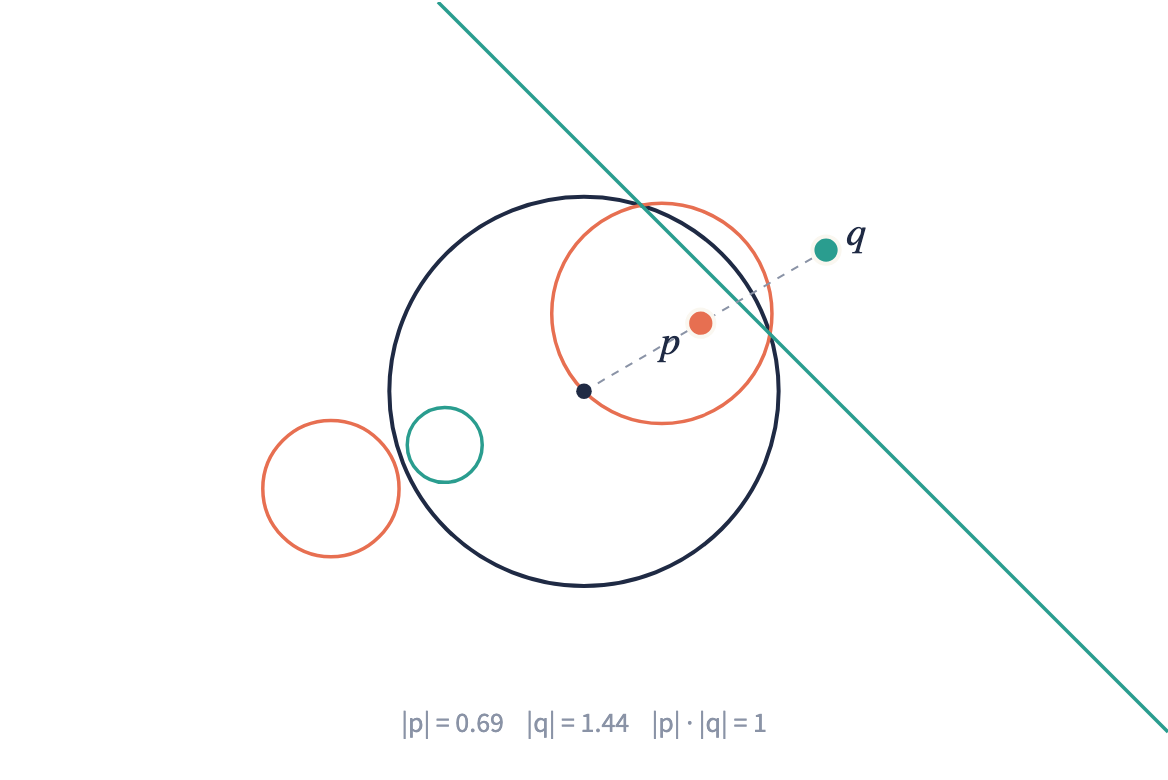
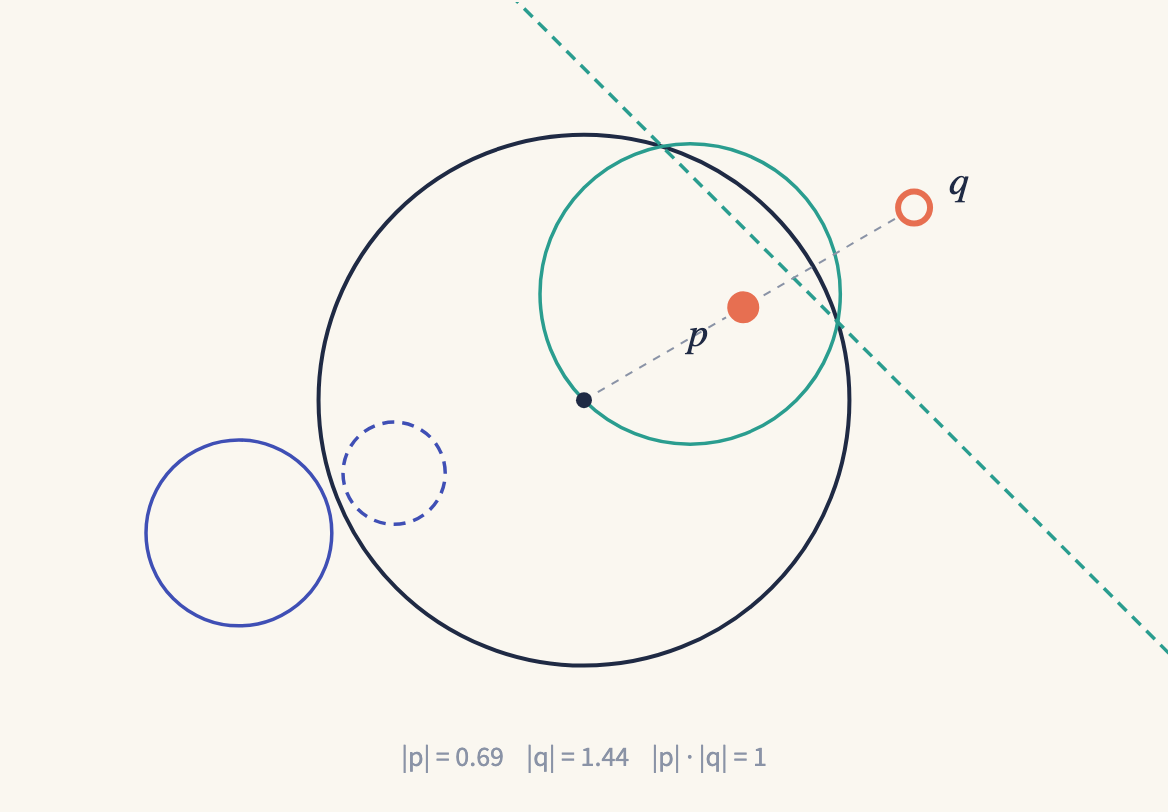
Inversion note in the new voice, a Voice section in BRAND.md, and fixes from a site audit
The note is rewritten in full sentences, with no instructions to the reader and no
Sources section; the citations sit in the text. The theme replaces BRAIID's blue
accent scale with the plum scale, so nothing stays blue. The home page shows the
current inversion figure, the site's own links get an ink focus ring, Videos is back
in the phone header, and Turan's lambda_1 is terracotta with the ceiling in ink.

Claude-Session: https://claude.ai/code/session_018B1YFdQCK4Xtd9jWM7feuX

diff --git a/theme/page.css b/theme/page.css
@@ -57,37 +57,26 @@
   /* BRAIID sets the text's font once, on the wrapper; the text inherits that, so it is set here too. */
   font-family: var(--font-body);
 }
-/* BRAIID colors everything that follows the accent (links, keywords, the rail and wash of a selected
-   block) from two scales of eleven shades, set on body[data-accent]. Both are replaced here with
-   Firsthand's plum, a Tailwind-style scale made from #8e44ad (tailwindcolor.tools). In dark mode the
-   scale is reversed, as BRAIID's own scales are: the light shades become the dark ones. Plum is the
-   site's accent and is never used in figures (BRAND.md). */
-body[data-accent] {
-  --primary-50: light-dark(#f8f6f8, #231429);
-  --primary-100: light-dark(#f1ecf3, #3b2046);
-  --primary-200: light-dark(#e0d0e6, #502a60);
-  --primary-300: light-dark(#cdafda, #6e3785);
-  --primary-400: light-dark(#b784cc, #8741a5);
-  --primary-500: light-dark(#a15abe, #a15abe);
-  --primary-600: light-dark(#8741a5, #b784cc);
-  --primary-700: light-dark(#6e3785, #cdafda);
-  --primary-800: light-dark(#502a60, #e0d0e6);
-  --primary-900: light-dark(#3b2046, #f1ecf3);
-  --primary-950: light-dark(#231429, #f8f6f8);
-  --information-50: var(--primary-50);
-  --information-100: var(--primary-100);
-  --information-200: var(--primary-200);
-  --information-300: var(--primary-300);
-  --information-400: var(--primary-400);
-  --information-500: var(--primary-500);
-  --information-600: var(--primary-600);
-  --information-700: var(--primary-700);
-  --information-800: var(--primary-800);
-  --information-900: var(--primary-900);
-  --information-950: var(--primary-950);
-  /* Keywords one step brighter than BRAIID's default, so they stand out from the text. */
-  --text-keyword: var(--primary-600);
+/* The page's accent is BRAIID's default, blue, and every color that follows the accent (links,
+   keywords, the selected block, the sidebar) is built from BRAIID's blue scale. That scale is
+   replaced here with Firsthand's plum, a Tailwind-style scale made from #8e44ad
+   (tailwindcolor.tools), reversed in dark mode as BRAIID's own scales are. Plum is the site's
+   accent and is never used in figures (BRAND.md). */
+:root {
+  --blue-50: light-dark(#f8f6f8, #231429);
+  --blue-100: light-dark(#f1ecf3, #3b2046);
+  --blue-200: light-dark(#e0d0e6, #502a60);
+  --blue-300: light-dark(#cdafda, #6e3785);
+  --blue-400: light-dark(#b784cc, #8741a5);
+  --blue-500: light-dark(#a15abe, #a15abe);
+  --blue-600: light-dark(#8741a5, #b784cc);
+  --blue-700: light-dark(#6e3785, #cdafda);
+  --blue-800: light-dark(#502a60, #e0d0e6);
+  --blue-900: light-dark(#3b2046, #f1ecf3);
+  --blue-950: light-dark(#231429, #f8f6f8);
 }
+/* Keywords one step brighter than BRAIID's default, so they stand out from the text. */
+body[data-accent] { --text-keyword: var(--primary-600); }
 
 /* The page title, as on the home page: Source Sans 3 semibold, in ink. */
 .manuscriptwrapper h1 {

diff --git a/public/base.css b/public/base.css
@@ -47,7 +47,7 @@ body { margin: 0; color: var(--fm-ink); }
 .fm-site nav a:hover { color: var(--fm-ink); background: color-mix(in srgb, var(--fm-ink) 7%, transparent); }
 .fm-site nav a:active { color: var(--fm-ink); background: color-mix(in srgb, var(--fm-ink) 14%, transparent); transform: translateY(1px); }
 .fm-site nav a[aria-current="page"] { color: var(--fm-ink); box-shadow: inset 0 -2px 0 var(--fm-terracotta); border-radius: 8px 8px 0 0; }
-.fm-site a:focus-visible { outline: 2px solid var(--fm-ink); outline-offset: 2px; }
+a:not(.manuscriptwrapper a):focus-visible { outline: 2px solid var(--fm-ink); outline-offset: 2px; }
 
 /* The kind of an exploration, and its byline */
 .fm-kind { font: 600 12px var(--fm-sans); letter-spacing: .08em; text-transform: uppercase; }
@@ -57,9 +57,9 @@ body { margin: 0; color: var(--fm-ink); }
 
 @media (max-width: 600px) {
   .fm-site { padding: 12px 14px; }
-  .fm-brand span { font-size: 19px; }
+  .fm-brand { gap: 8px; }
+  .fm-brand span { font-size: 17px; }
   .fm-mark { width: 26px; height: 26px; }
   .fm-site nav { gap: 0; }
-  .fm-site nav a { font-size: 14px; padding: 9px 8px; }
-  .fm-site nav a:nth-child(2) { display: none; }
+  .fm-site nav a { font-size: 13px; padding: 9px 6px; }
 }

diff --git a/BRAND.md b/BRAND.md
@@ -18,21 +18,36 @@ videos, thumbnails, social profiles.
 
 ## Voice
 
-A researcher showing a colleague something worth seeing.
+Set by the author, 2026-11-09. The register is that of the author's papers and of the About
+page: a mathematician writing for a curious reader, in full, connected sentences.
 
-- **Specific:** name the actual object and the actual claim.
-- **Plain:** short sentences, ordinary words; technical terms only when the figure needs them,
-  defined when used.
-- **Unhurried and honest:** no hype, no urgency. Say what is hard, what is open, what is unknown.
+- **Full sentences, joined by their logic.** Sentences carry a whole thought and are joined by
+  words such as "namely", "furthermore", "however", "since" and "though". Never staccato: no runs
+  of short sentences, and no fragments.
+- **Never punchy.** No slogans, no teasers, no lines written to land. A sentence states the
+  mathematics and stops.
+- **No clause hung on a noun.** Never "the circle the figure shows has radius 1", and avoid long
+  clauses introduced by "that". Write "the circle shown in the figure has radius 1", or, shorter,
+  "the circle in the figure has radius 1".
+- **No first person,** neither "I" nor "we", and the reader is not addressed or given
+  instructions ("drag p", "now turn on").
+- **Nothing that is not a person acts as one.** A figure, a readout, a proof or a page does not
+  say, show, want, cost or know anything. Write "the product shown under the figure", not "the
+  readout says".
+- **Specific:** name the actual object and the actual claim, in the usual mathematical terms
+  ("fix", "let", "is its own inverse", "preserves angles").
+- **Honest:** say what is hard, what is open and what is unknown, plainly and without an appeal
+  to the reader.
 
-Samples:
+Samples, from the author's papers:
 
-- A short's title: "Every finite metric space fits in a plane, almost." Not "This will blow your
-  mind".
-- An exploration's opening: "Bourgain showed that any n points can be drawn in a space of
-  dimension about log n, stretching no distance by more than a factor of log n. The figure below
-  draws them. Move the points and watch the stretch."
-- A note's ending: "I don't know a proof that avoids the random choice. If you do, tell me."
+- "Consider a finite undirected unweighted graph G and add a new node to it arbitrarily
+  connecting it to pre-existing nodes. We study the behavior of the Perron eigenvalue of the
+  non-backtracking matrix of G before and after such a node addition." (The pages use the same
+  register without "we".)
+- "Much effort has been spent on characterizing the spectrum of the non-backtracking matrix of
+  certain classes of graphs, with special emphasis on the leading eigenvalue or the second
+  eigenvector."
 
 ## Content
 
